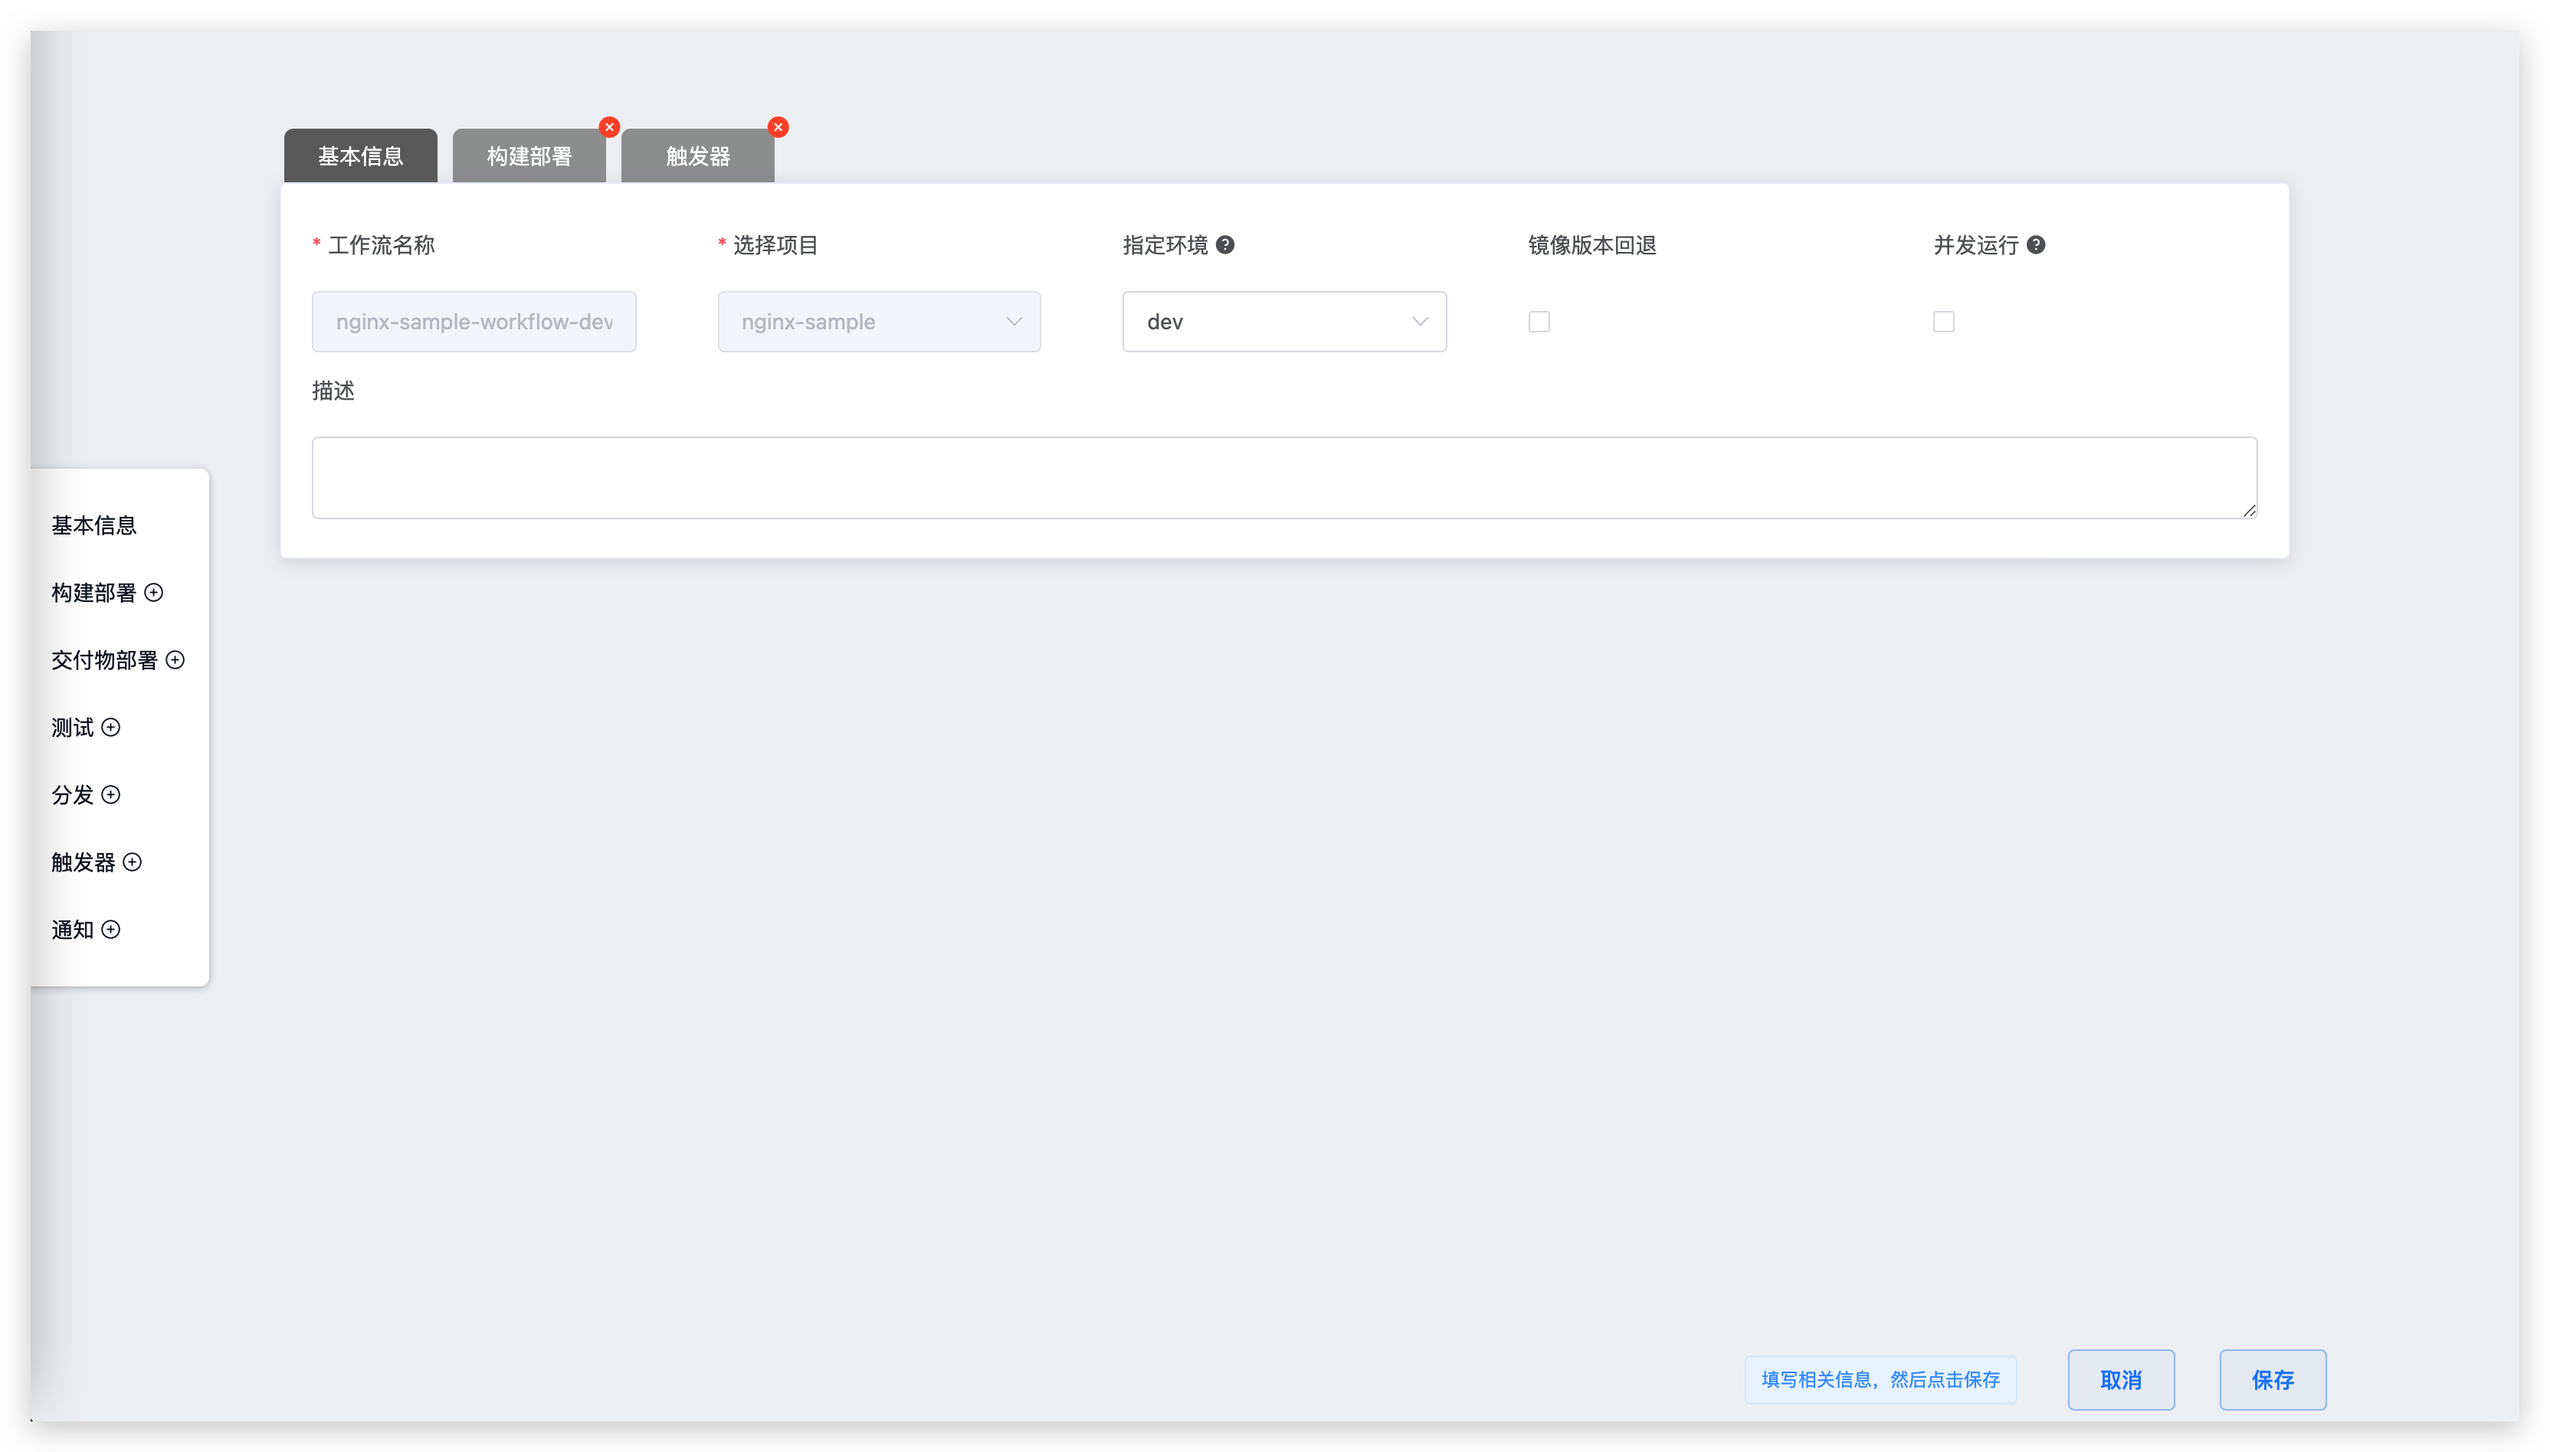
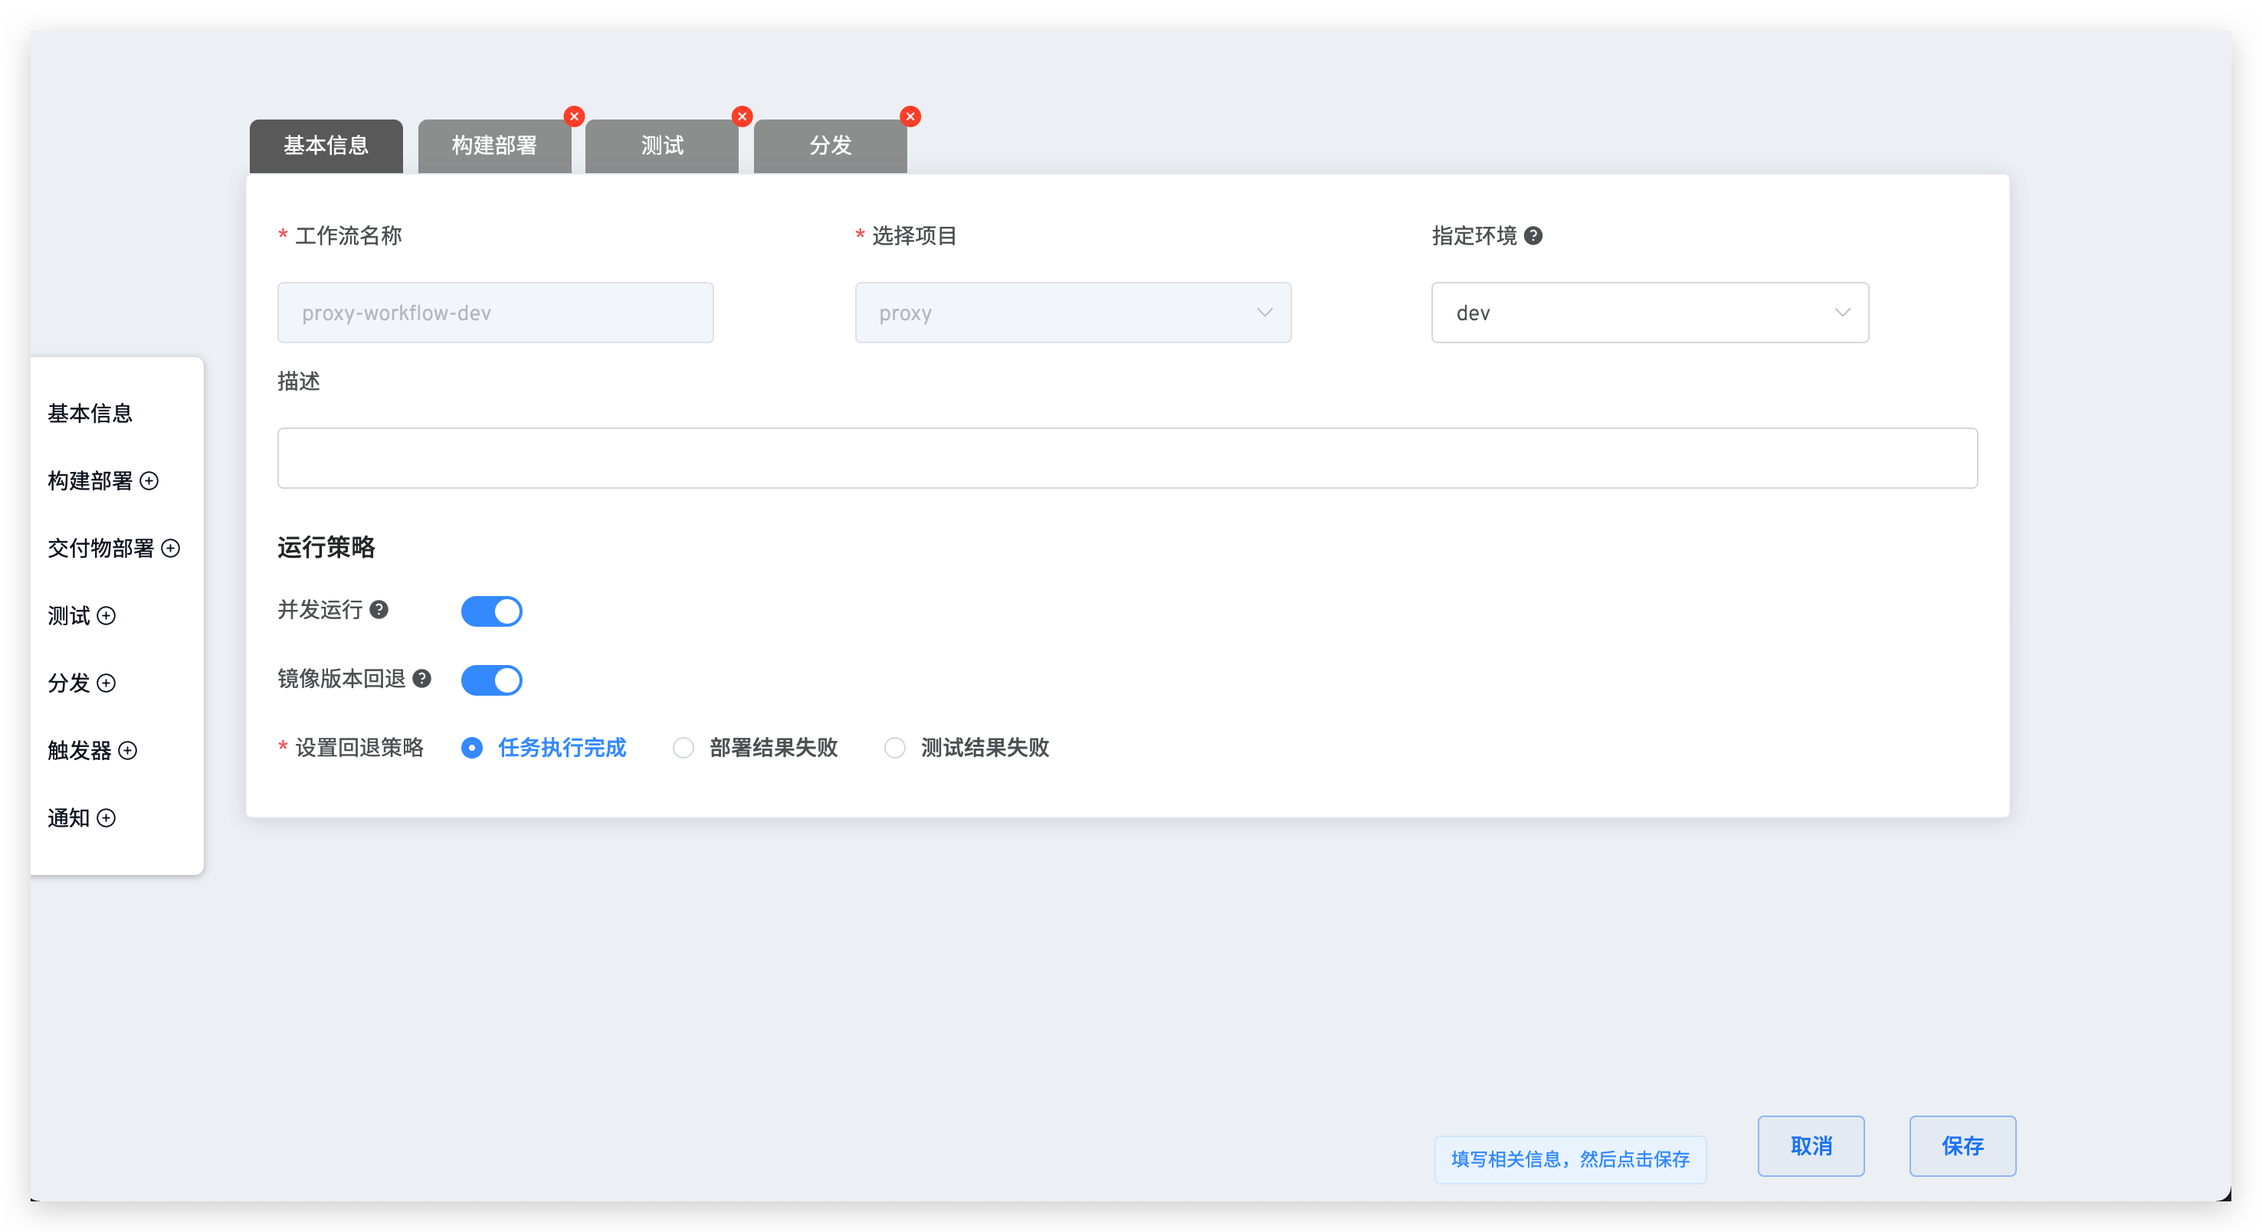
add image rollback strategy

diff --git a/dev/04.项目/02.workflow.md b/dev/04.项目/02.workflow.md
@@ -11,16 +11,26 @@ permalink: /dev/project/workflow/
 
 ### 基本信息
 
-> 主要包含工作流名称、描述信息、所属项目信息
+> 包括工作流名称、所属项目、部署环境和描述等基础信息以及运行策略信息。
 
 ![workflow](./_images/workflow.png)
 
-参数说明:
+#### 基础信息
+
 - `工作流名称`：名称只支持字母大小写和数字，特殊字符只支持中划线。
-- `选择项目`：选择工作流所更新的项目名称。
+- `选择项目`：工作流所更新的项目名称，确定后不可更改。
+- `指定环境`：工作流部署更新的集成环境。
 - `描述`：描述该工作流的详细信息，在工作留详情页展示。
-- `并发运行` <sup style='color: red'>新</sup>：多名合作者先后触发该工作流更新不同的服务时，产生的多个任务将会并发执行以提升构建、部署、测试效率。
-- `镜像版本回退` <sup style='color: red'>新</sup>： 若开启，则工作流执行完毕后，被更新服务的镜像会回退到工作流任务执行前的版本。更多信息可阅读：[工作流的镜像版本回退](/dev/workflow/image/rollback/)。
+
+#### 运行策略
+- `并发运行`：多名合作者先后触发该工作流更新不同的服务时，产生的多个任务将会并发执行以提升构建、部署、测试效率。
+- `镜像版本回退` <sup style='color: red'>新</sup>： 开启后，设置回退策略。当工作流任务运行状态和测试结果满足回退策略的设定时，被更新服务的镜像会回退到工作流任务执行前的版本。回退策略说明如下：
+  - `任务执行完成`：工作流运行完毕后，不管运行结果如何，均回退镜像版本。工作流任务执行成功 / 失败 / 超时 / 被取消均视为运行完毕。
+  - `部署结果失败`：使用工作流对服务进行部署更新，当部署服务失败时，回退镜像版本。
+  - `测试结果失败`：工作流中包含测试步骤，当测试运行失败时，回退镜像版本。
+
+关于镜像版本回退，更多信息可阅读：[工作流的镜像版本回退](/dev/workflow/image/rollback/)。
+
 
 ### 构建部署
 

diff --git a/dev/06.工作流/03.workflow-image-rollback.md b/dev/06.工作流/03.workflow-image-rollback.md
@@ -4,7 +4,7 @@ date: 2021-12-15 18:53:06
 permalink: /dev/workflow/image/rollback/
 ---
 
-本文主要介绍工作流支持的镜像版本回退能力：在按照流程运行工作流完毕后，回退集成环境中被更新服务的镜像，恢复为工作流运行之前的镜像版本。
+本文主要介绍工作流支持的镜像版本回退能力：在按照流程运行工作流完毕后，根据工作流任务实际运行结果和设置的回退策略来回退集成环境中被更新服务的镜像，恢复为工作流运行之前的镜像版本。
 
 > [K8s YAML 部署的项目](/dev/project/k8s-yaml/)和 [Helm Chart 部署的项目](/dev/project/helm-chart/)中支持镜像版本回退功能。
 
@@ -20,5 +20,6 @@ permalink: /dev/workflow/image/rollback/
 
 镜像版本回退功能的适用场景包括但不限于：
 
-1. 多人协作共同使用一套集成环境。开发者希望验证代码变更是否能正常构建部署，且验证完毕后，不希望改变集成环境中的服务镜像版本，避免对其他使用者造成不预期；
-2. 多人协作共同使用一套集成环境，工作流中有集成测试步骤。开发者希望验证代码变更部署后是否能通过集成测试验证，在最终不修改协作集成环境的服务版本的前提下，获得集成测试结果。
+1. 多人协作共同使用一套集成环境。开发者希望验证代码变更是否能正常构建部署、通过测试，且验证完毕后，不论工作流运行结果如何，不希望改变集成环境中的服务镜像版本，避免对其他使用者造成不预期，此时设置回退策略为`任务执行完成`即可。
+2. 使用工作流部署更新服务且部署失败，不希望集成环境中服务的镜像版本受该次失败影响，此时设置回退策略为`部署结果失败`即可。
+3. 工作流中包含构建部署和测试步骤，如果测试步骤运行失败则回滚被更新的服务镜像，此时设置回退策略为`测试结果失败`即可。
